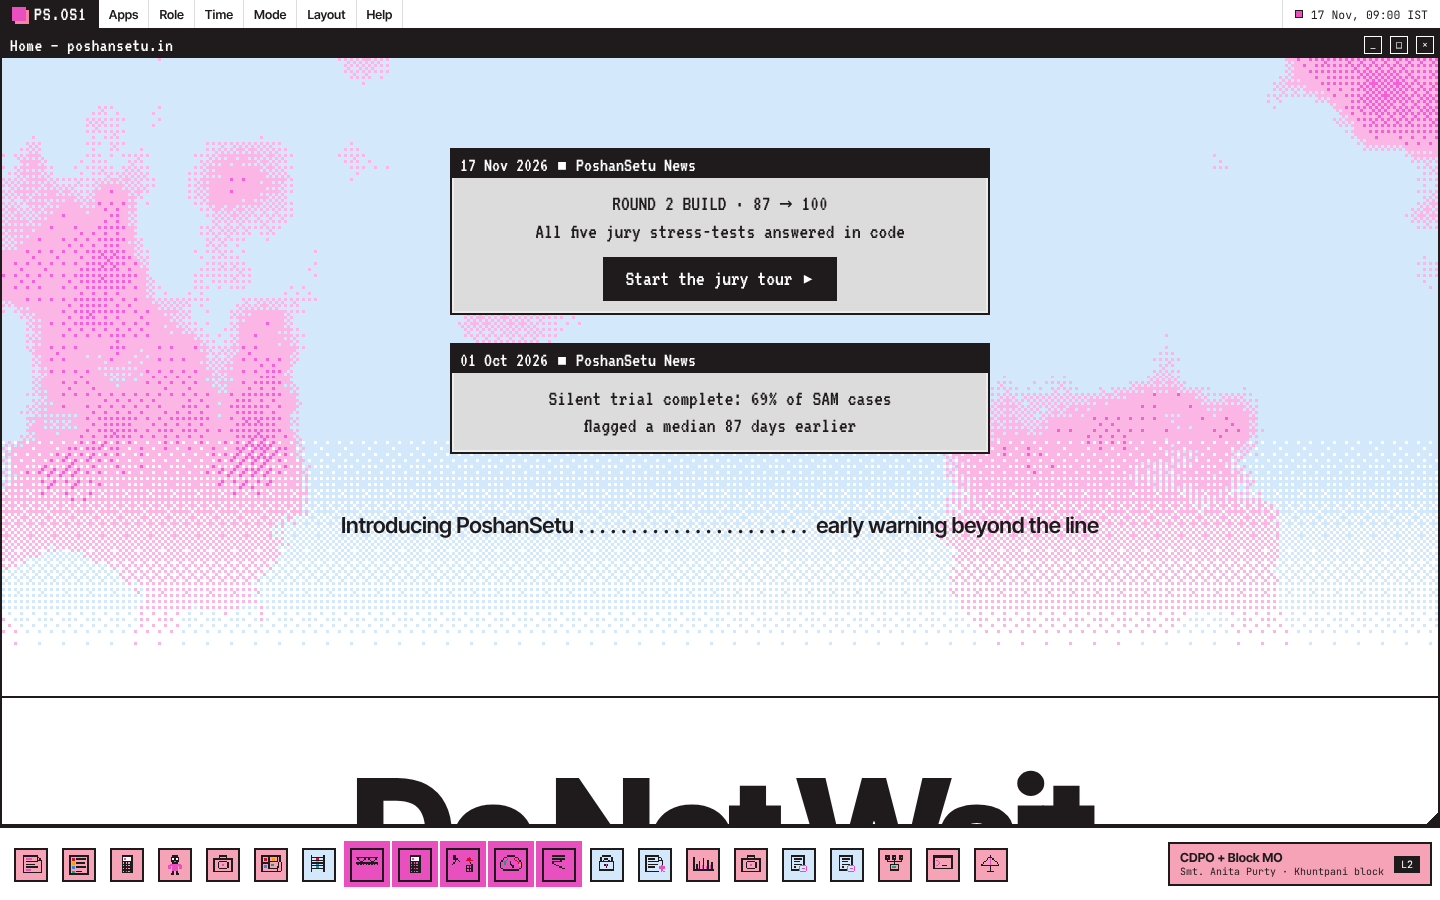
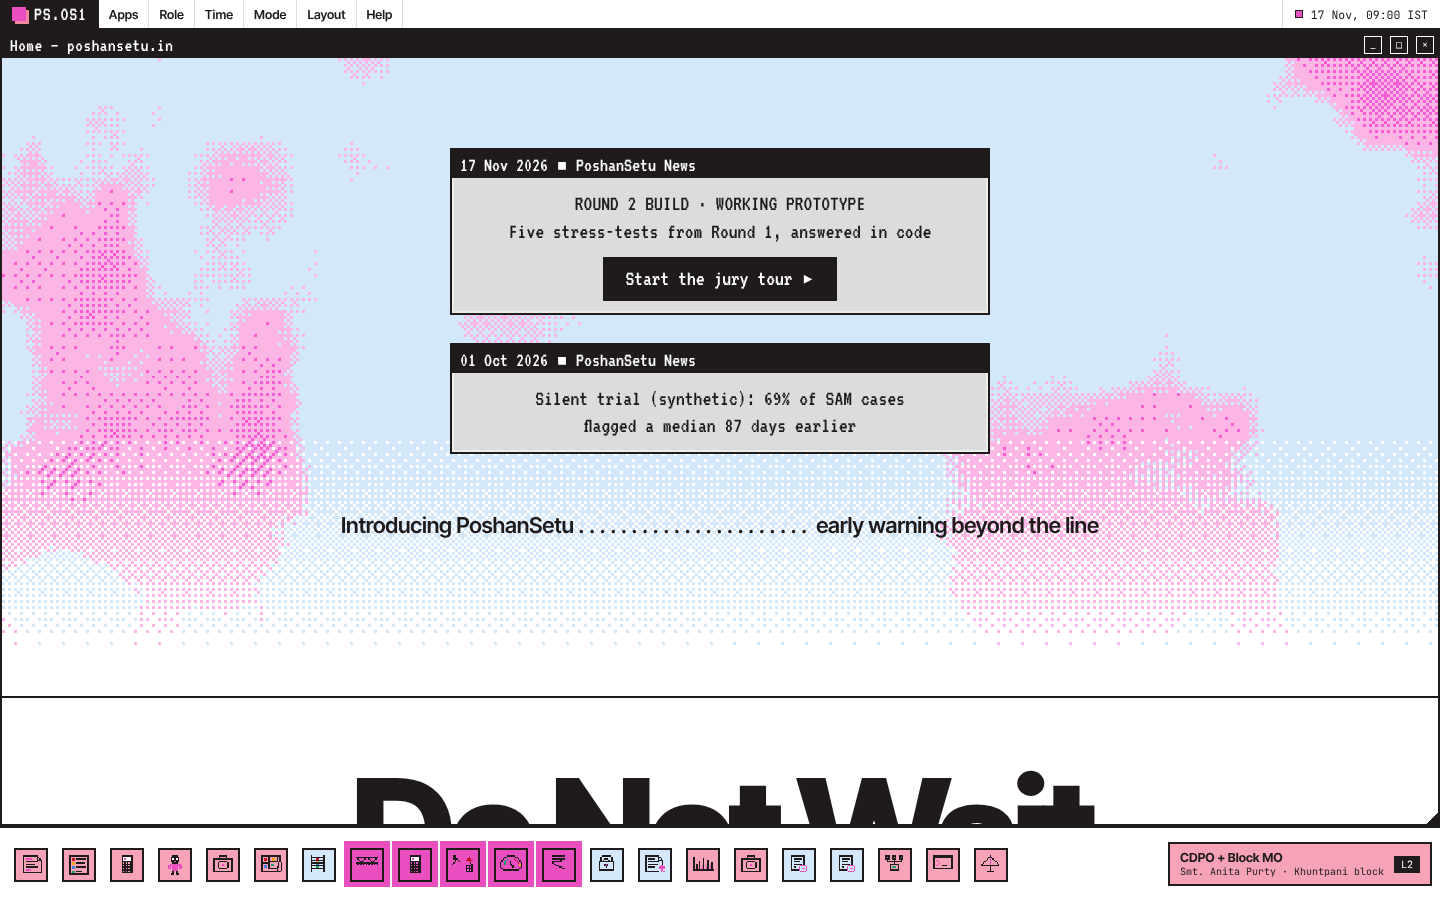
Home: humbler headline copy
Claude-Session: https://claude.ai/code/session_01H5NQY22v1egzwKcLKCXRGs

Changed region(s): [[0.3438, 0.2178, 0.6562, 0.28], [0.375, 0.4356, 0.625, 0.4667]]

diff --git a/app/ui/apps/landing.js b/app/ui/apps/landing.js
@@ -27,8 +27,8 @@ export default {
         btn ? h('button', { onclick: fn, style: { marginTop: '12px', background: 'var(--ink)', color: '#fff', border: 0, fontFamily: 'var(--font-pixel)', fontSize: '22px', padding: '8px 22px' } }, btn) : null));
     const hero = h('div', { style: { position: 'relative', minHeight: '640px', overflow: 'hidden', borderBottom: '2px solid var(--ink)' } }, canvas,
       h('div', { style: { position: 'relative', display: 'flex', flexDirection: 'column', alignItems: 'center', gap: '28px', paddingTop: '90px' } },
-        news(fmtDate(store.now), 'ROUND 2 BUILD · 87 → 100', 'All five jury stress-tests answered in code', 'Start the jury tour ▸', () => enter('jury')),
-        news(fmtDate(store.consts.LIVE_FROM), `Silent trial complete: ${share}% of SAM cases`, `flagged a median ${lead} days earlier`, null),
+        news(fmtDate(store.now), 'ROUND 2 BUILD · WORKING PROTOTYPE', 'Five stress-tests from Round 1, answered in code', 'Start the jury tour ▸', () => enter('jury')),
+        news(fmtDate(store.consts.LIVE_FROM), `Silent trial (synthetic): ${share}% of SAM cases`, `flagged a median ${lead} days earlier`, null),
         h('div', { style: { marginTop: '30px', fontSize: '22px', fontWeight: 600, letterSpacing: '-0.01em' } }, 'Introducing PoshanSetu ', h('span', { style: { letterSpacing: '0.2em' } }, '......................'), ' early warning beyond the line')));
     let raf, t = 0, last = 0;
     const loop = (ts) => { if (ts - last > 120) { drawClouds(canvas, t += 1); last = ts; } raf = requestAnimationFrame(loop); };
